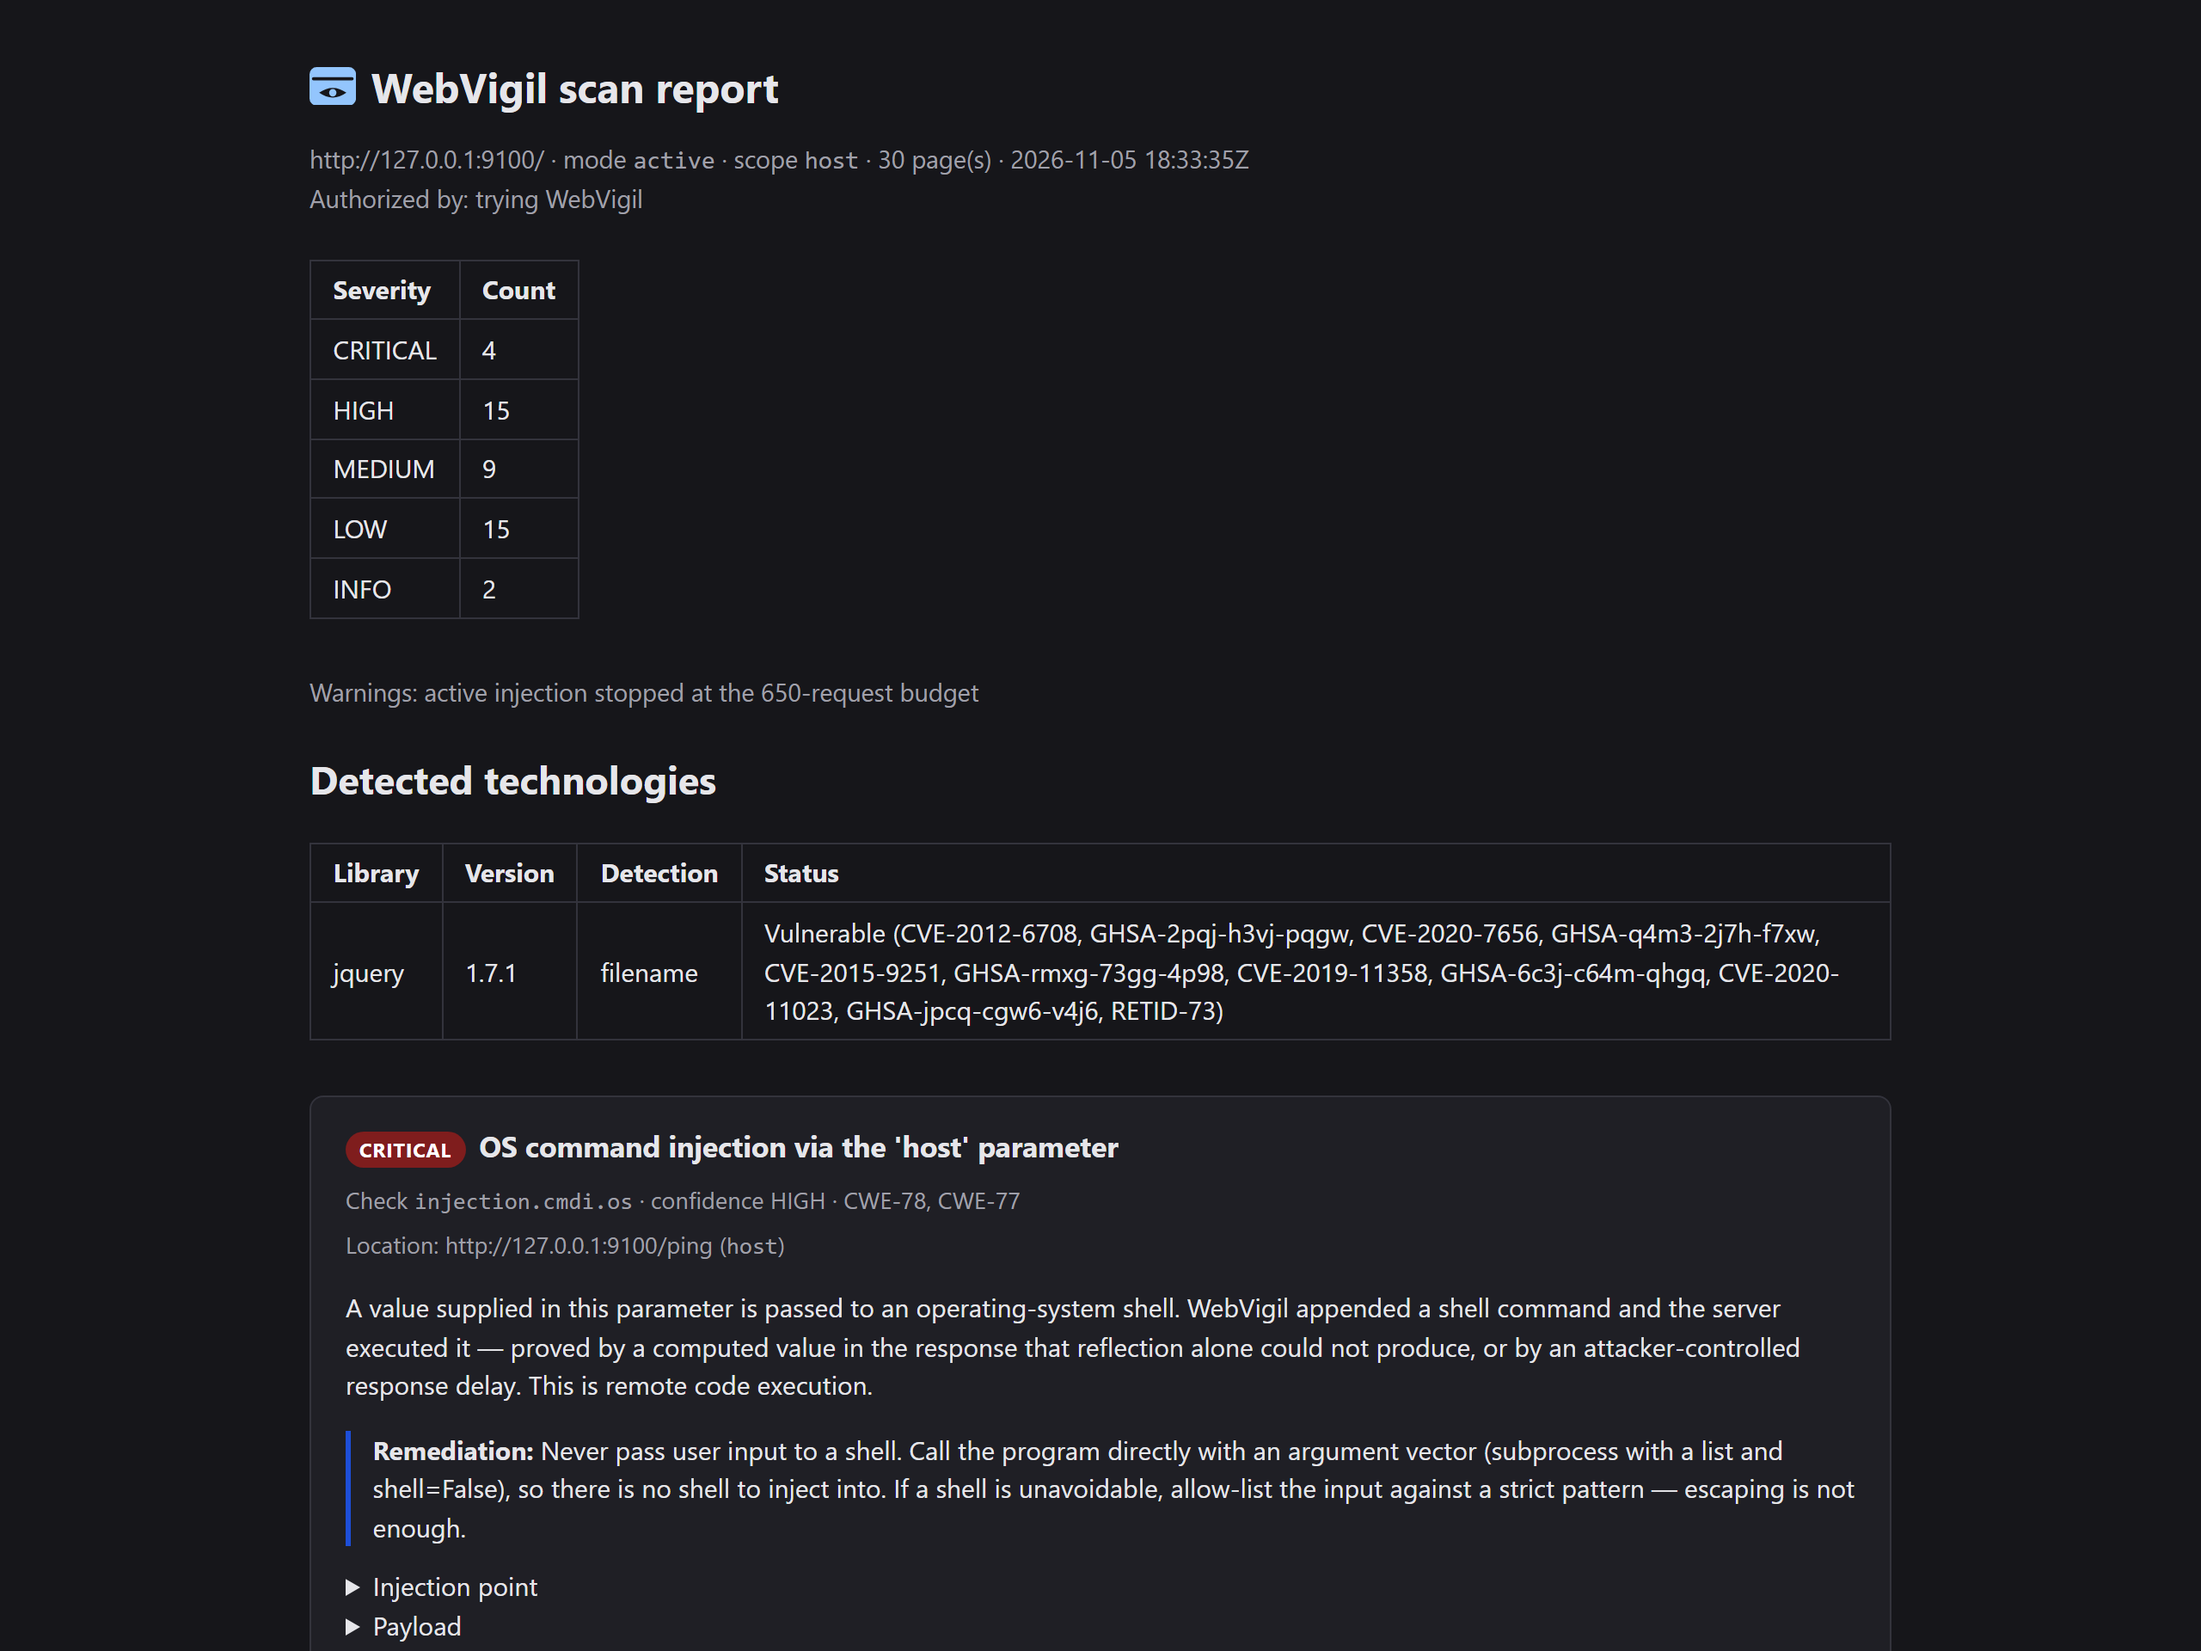
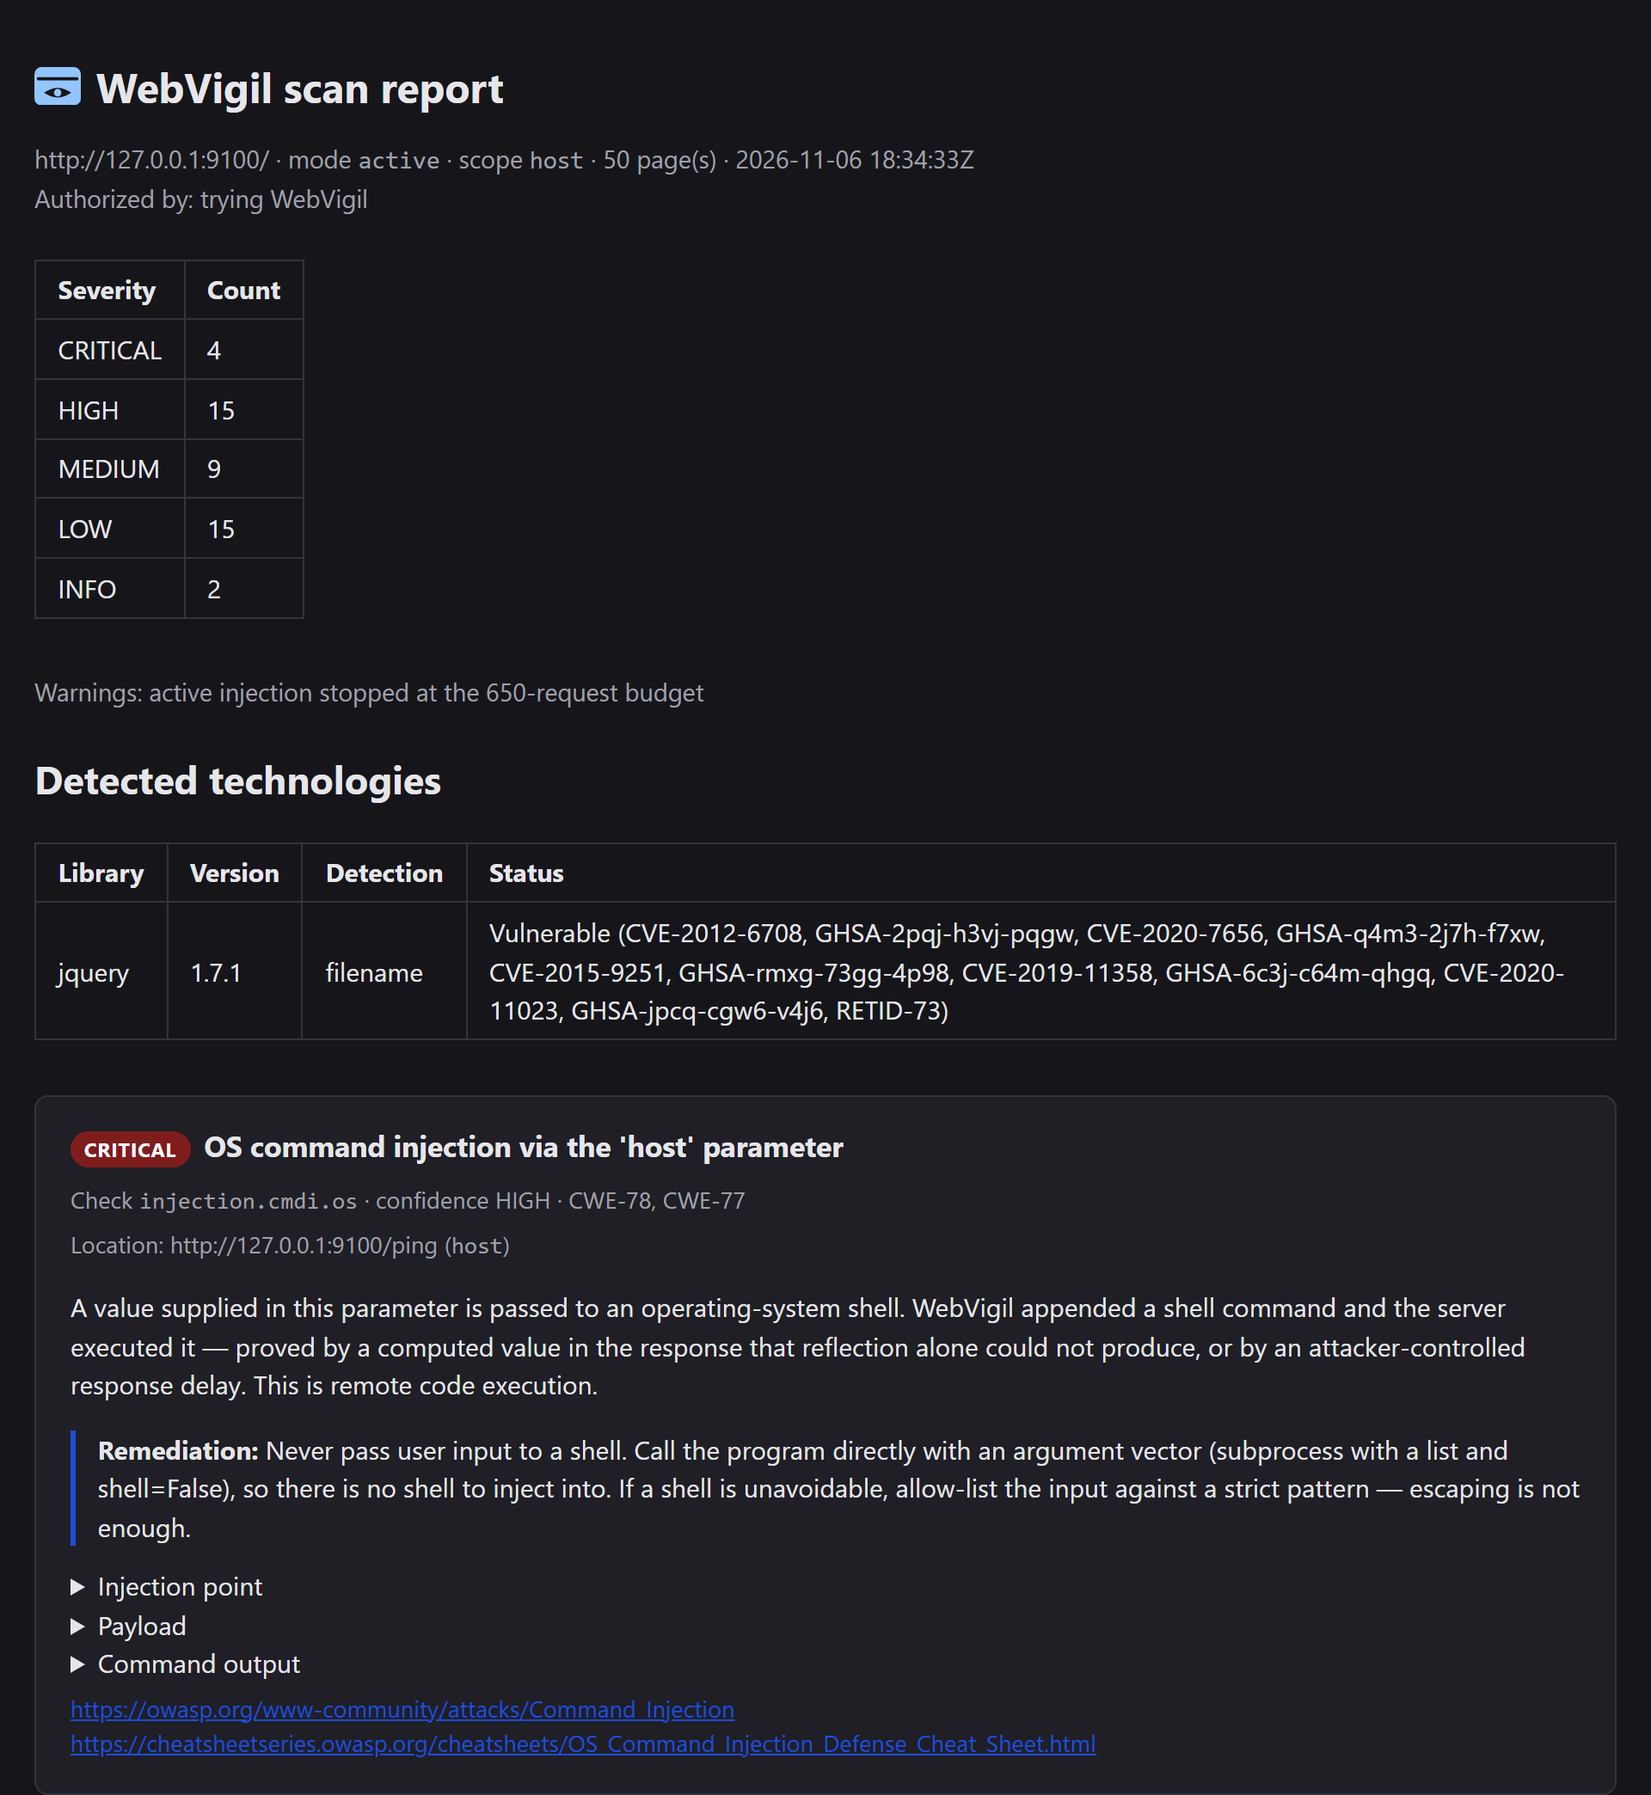
feat(webvigil): regera as capturas do relatório e a saída do terminal (Etapa 5 da spec 004) (#27)
Scan ativo do WebVigil 1.2.0 contra o app de teste do repositório da ferramenta.
O trecho do terminal ganha a linha do achado crítico (injeção de comando) e as
quatro capturas do relatório (1024 e 360 px, 2x, claro e escuro) são refeitas,
com a contagem batendo com a do terminal. O texto alternativo passa a dizer que a
biblioteca jQuery só aparece na versão de tela larga.

diff --git a/apps/webvigil/src/textos.ts b/apps/webvigil/src/textos.ts
@@ -68,7 +68,7 @@ const pt = {
     lead: "Um arquivo só, que você abre no navegador ou guarda junto do build. Mostra a contagem por severidade, as bibliotecas vulneráveis e, em cada achado, o local, a explicação e a correção sugerida.",
     legenda:
       "Topo do relatório de um scan ativo do app de teste que acompanha o repositório. O relatório está em inglês.",
-    alt: "Relatório HTML do WebVigil: tabela com 4 críticos, 15 altos, 9 médios, 15 baixos e 2 informativos, a biblioteca jQuery 1.7.1 vulnerável e o primeiro achado, injeção de comando no parâmetro host.",
+    alt: "Relatório HTML do WebVigil: tabela com 4 críticos, 15 altos, 9 médios, 15 baixos e 2 informativos, o primeiro achado (injeção de comando no parâmetro host) e, na versão para tela larga, a biblioteca jQuery 1.7.1 vulnerável.",
     aviso: {
       rotulo: "Opcional",
       titulo: "O WebVigil também possui um dashboard",
@@ -205,7 +205,7 @@ const en: TextosPagina = {
     lead: "A single file you open in the browser or keep alongside the build. It shows the count by severity, the vulnerable libraries and, for each finding, the location, the explanation and the suggested fix.",
     legenda:
       "Top of the report from an active scan of the test app that ships with the repository.",
-    alt: "WebVigil HTML report: table with 4 critical, 15 high, 9 medium, 15 low and 2 info findings, the vulnerable jQuery 1.7.1 library and the first finding, command injection in the host parameter.",
+    alt: "WebVigil HTML report: table with 4 critical, 15 high, 9 medium, 15 low and 2 info findings, the first finding (command injection in the host parameter) and, in the wide-screen version, the vulnerable jQuery 1.7.1 library.",
     aviso: {
       rotulo: "Optional",
       titulo: "WebVigil also has a dashboard",

diff --git a/apps/webvigil/src/terminais.ts b/apps/webvigil/src/terminais.ts
@@ -24,10 +24,12 @@ const SAIDA_EN = [
   '│ <span class="t-dim t-b">INFO</span>     │     2 │',
   "└──────────┴───────┘",
   '<span class="t-dim">…</span>',
-  '      <span class="t-high t-b">HIGH</span>  Werkzeug interactive debugger exposed  http://127.0.0.1:9100/boom',
-  '    <span class="t-med t-b">MEDIUM</span>  Content-Security-Policy header is missing  http://127.0.0.1:9100/',
   '    <span class="t-med t-b">MEDIUM</span>  jquery 1.7.1 has known vulnerabilities  http://127.0.0.1:9100/static/jquery-1.7.1.min.js',
-  "       <span class=\"t-low t-b\">LOW</span>  Cookie 'session' is set without the HttpOnly attribute",
+  '      <span class="t-high t-b">HIGH</span>  Werkzeug interactive debugger exposed  http://127.0.0.1:9100/boom',
+  "       <span class=\"t-low t-b\">LOW</span>  Cookie 'session' is set without the HttpOnly attribute  http://127.0.0.1:9100/ (session)",
+  '    <span class="t-med t-b">MEDIUM</span>  Content-Security-Policy header is missing  http://127.0.0.1:9100/ (Content-Security-Policy)',
+  '<span class="t-dim">…</span>',
+  "  <span class=\"t-crit t-b\">CRITICAL</span>  OS command injection via the 'host' parameter  http://127.0.0.1:9100/ping (host)",
 ].join("\n");
 
 /** Saída do terminal por idioma. */

diff --git a/specs/004-pagina-webvigil/tasks.md b/specs/004-pagina-webvigil/tasks.md
@@ -100,12 +100,12 @@ mantenedor na hora.
 
 Só começa com a autorização do mantenedor na hora, porque o scan ativo escreve no app de teste.
 
-- [ ] Preparar o ambiente: instalar a versão publicada mais recente do WebVigil (`pipx` ou `uv`), registrar o número da versão aqui, subir o app de teste do repositório da ferramenta (`scripts/serve-fixture-app.py`, porta 9100) e rodar o comando mostrado no terminal da página (`webvigil scan http://127.0.0.1:9100 --mode active --authorized-by "trying WebVigil"`), gerando o JSON e o relatório HTML. — RF-07
-- [ ] `apps/webvigil/src/terminais.ts`: a saída real do scan, com a linha do achado crítico (injeção de comando) no trecho, na mesma contagem do relatório; conferir que a saída cabe nas faixas do `terminal.css` (120 caracteres de comando, 80 linhas). — RF-07, ADR-5
-- [ ] Capturas do relatório: aberto numa janela de 1024 px (desktop) e de 360 px (celular), a 2x, claro e escuro, cortado nas bordas do conteúdo do relatório e no fim do primeiro achado crítico; quatro arquivos em `apps/webvigil/src/assets/relatorio/`, substituindo os atuais. — RF-07, ADR-5
-- [ ] Conferir cada captura contra a página: texto de 16 px ou mais no desktop e de 14 px ou mais no celular, sem margem vazia nem bloco cortado no meio, as contagens da legenda e do texto alternativo batendo, e o terminal contando a mesma história. Anotar o peso de cada arquivo; se o Lighthouse estourar o limite de peso, converter para WebP. — RF-07, RNF-04
-- [ ] `apps/webvigil/src/componentes/Vitrine.astro`: importar as imagens novas; `width` e `height` vêm do `ImageMetadata`. — RF-07
-- [ ] Portão de qualidade e Lighthouse nos quatro perfis (os dois sites, celular e desktop). — Anotar o resultado real.
+- [x] Preparar o ambiente: instalar a versão publicada mais recente do WebVigil (`pipx` ou `uv`), registrar o número da versão aqui, subir o app de teste do repositório da ferramenta (`scripts/serve-fixture-app.py`, porta 9100) e rodar o comando mostrado no terminal da página (`webvigil scan http://127.0.0.1:9100 --mode active --authorized-by "trying WebVigil"`), gerando o JSON e o relatório HTML. — RF-07 Feito: WebVigil 1.2.0 (publicado no PyPI), instalado num ambiente isolado; app de teste do repositório da ferramenta na porta 9100; scan ativo rodado três vezes (terminal, JSON e HTML), as três com a mesma contagem: 4 críticos, 15 altos, 9 médios, 15 baixos e 2 informativos, 50 páginas, aviso do orçamento de 650 requisições.
+- [x] `apps/webvigil/src/terminais.ts`: a saída real do scan, com a linha do achado crítico (injeção de comando) no trecho, na mesma contagem do relatório; conferir que a saída cabe nas faixas do `terminal.css` (120 caracteres de comando, 80 linhas). — RF-07, ADR-5 Feito: o trecho ganhou a linha do achado crítico (injeção de comando no parâmetro `host`), na ordem real da saída, com `…` entre os grupos; a tabela é a da saída real. Cabe nas faixas do `terminal.css`.
+- [x] Capturas do relatório: aberto numa janela de 1024 px (desktop) e de 360 px (celular), a 2x, claro e escuro, cortado nas bordas do conteúdo do relatório e no fim do primeiro achado crítico; quatro arquivos em `apps/webvigil/src/assets/relatorio/`, substituindo os atuais. — RF-07, ADR-5 Feito: 1024 px (960 de conteúdo, 1920 × 2088) e 360 px (720 × 2174), a 2x, claro e escuro, cortadas nas bordas do `<main>` e no fim do primeiro achado crítico. No celular a captura omite a seção "Detected technologies" e os links de referência, porque a lista de CVEs e os links longos estouram a coluna do relatório a 360 px e a imagem mostraria bloco cortado.
+- [x] Conferir cada captura contra a página: texto de 16 px ou mais no desktop e de 14 px ou mais no celular, sem margem vazia nem bloco cortado no meio, as contagens da legenda e do texto alternativo batendo, e o terminal contando a mesma história. Anotar o peso de cada arquivo; se o Lighthouse estourar o limite de peso, converter para WebP. — RF-07, RNF-04 Feito: a 360 px a figura aparece com 318 px de largura (escala 0,88, texto de cerca de 14 px); a 1280 px, com 1022 px de largura (escala 1,06, texto de 17 px); sem rolagem horizontal. Contagens da legenda, do texto alternativo e do terminal batem. Pesos: 194 KB e 193 KB (celular, escuro e claro), 257 KB e 259 KB (desktop); não foi preciso converter para WebP. O texto alternativo agora diz que o jQuery só aparece na versão de tela larga.
+- [x] `apps/webvigil/src/componentes/Vitrine.astro`: importar as imagens novas; `width` e `height` vêm do `ImageMetadata`. — RF-07 Feito: os quatro arquivos mantêm os nomes, então os imports não mudaram; `width` e `height` vêm do `ImageMetadata`.
+- [x] Portão de qualidade e Lighthouse nos quatro perfis (os dois sites, celular e desktop). — Anotar o resultado real. Feito: Prettier, ESLint, typecheck, testes e build dos dois sites passam, com `verificar-dist` sem problemas; Lighthouse CI nos quatro perfis (os dois sites, celular e desktop) sem erro nem aviso.
 
 ## Etapa 6 — Fatos e textos
 
